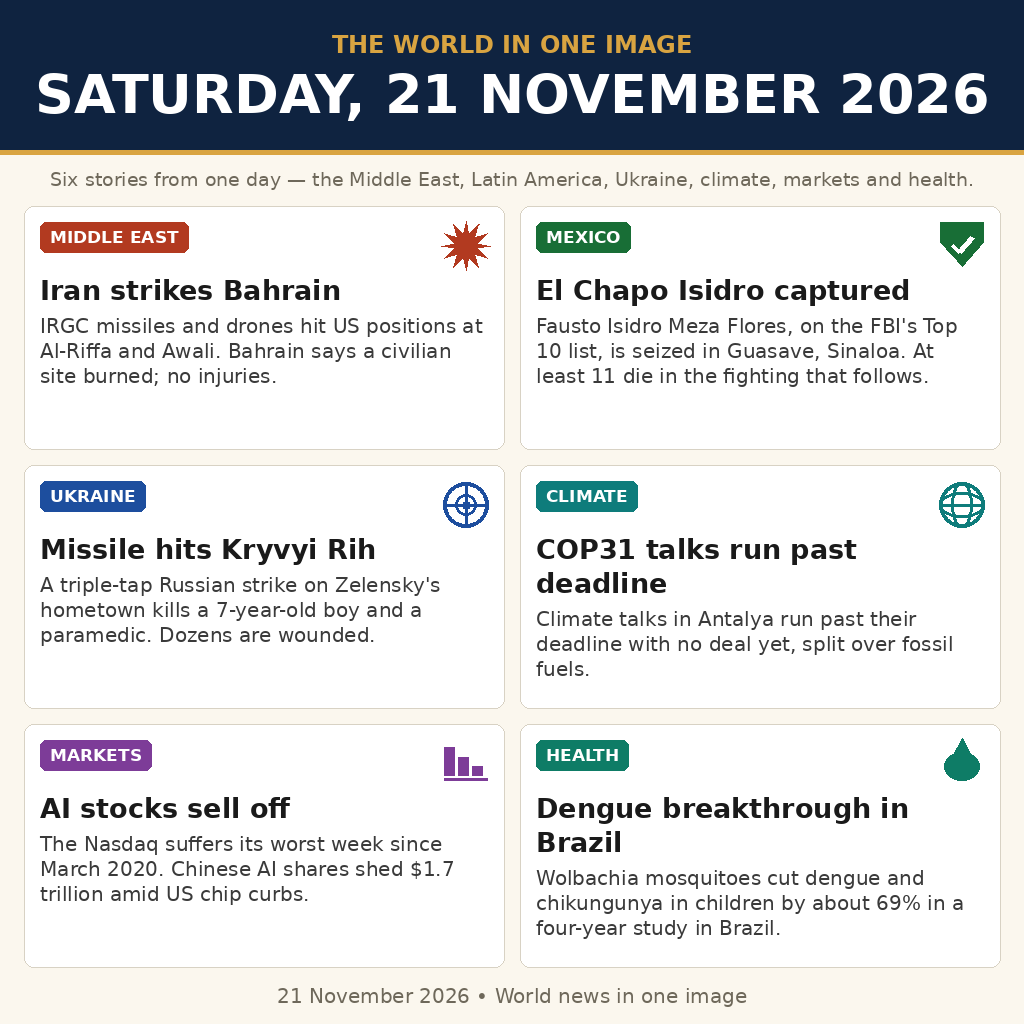
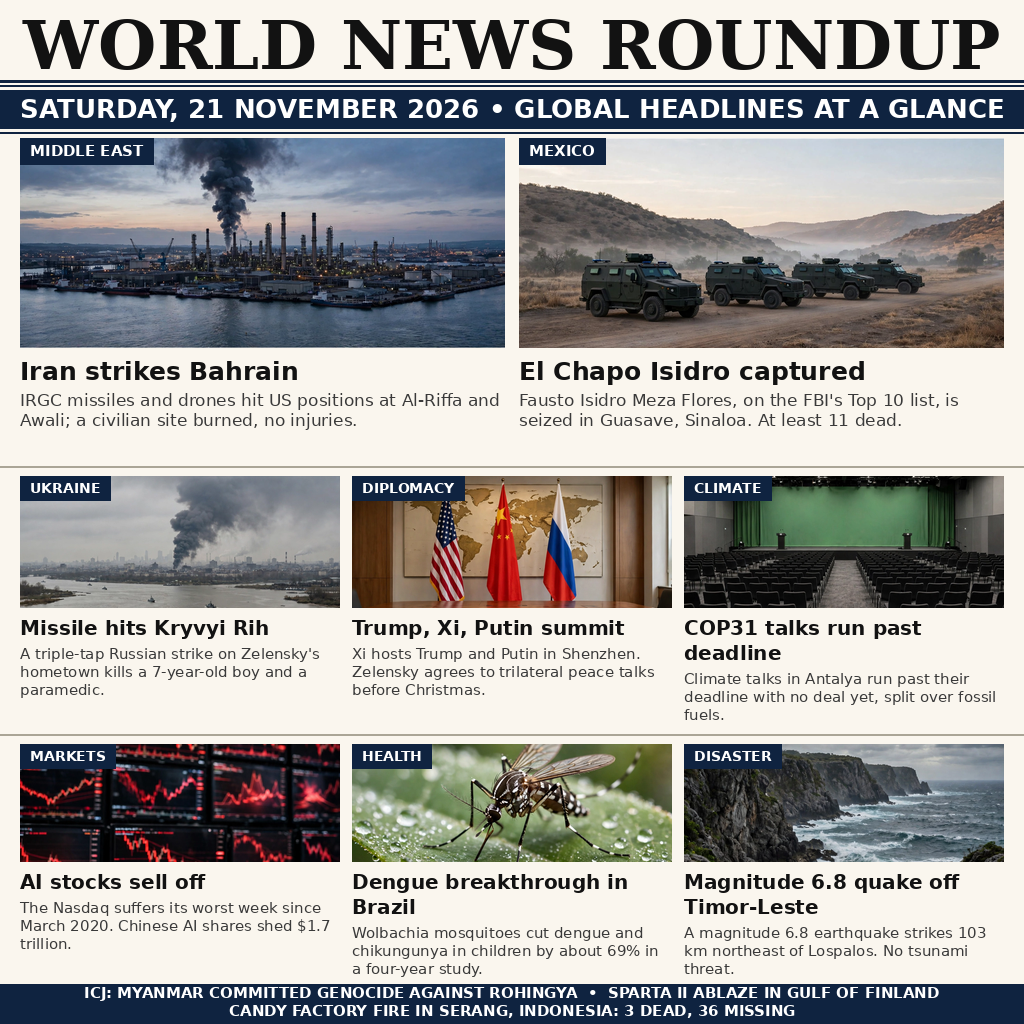
v2: newspaper front page with 8 photo stories and ticker

diff --git a/main.py b/main.py
@@ -1,8 +1,11 @@
 """Copy the entry image to the output directory.
 
 The entry is a pre-rendered PNG (entry.png, next to this file) that sums
-up the world news of Saturday 21 November 2026. This program only copies
-it to $MAKEFUN_OUTPUT_DIR/entry.png, so both runs write identical bytes.
+up the world news of Saturday 21 November 2026 as a newspaper front
+page: masthead, date band, eight photo stories with headlines, and a
+footer ticker. v2 replaces the v1 icon grid with AI-generated photo
+illustrations and two more stories. This program only copies it to
+$MAKEFUN_OUTPUT_DIR/entry.png, so both runs write identical bytes.
 Standard library only; no network.
 """
 

diff --git a/README.md b/README.md
@@ -10,12 +10,16 @@ A make.fun entry for the bounty
 [news-image-20261121](https://make.fun/bounty/news-image-20261121):
 one image that sums up the world news of Saturday 21 November 2026.
 
-The image is a newspaper-style front page with six stories from that day:
-Iran strikes Bahrain, "El Chapo Isidro" captured in Mexico, a Russian
-missile hits Kryvyi Rih, COP31 talks run past their deadline in Antalya,
-an AI stock sell-off, and a dengue breakthrough in Brazil. Every story is
-drawn with real rendered text (Python PIL, DejaVu fonts) — no AI image
-generator, no copied photos.
+The image is a newspaper-style front page with eight photo stories from
+that day: Iran strikes Bahrain, "El Chapo Isidro" captured in Mexico, a
+Russian missile hits Kryvyi Rih, the Trump–Xi–Putin summit in Shenzhen,
+COP31 talks run past their deadline in Antalya, an AI stock sell-off, a
+dengue breakthrough in Brazil, and a magnitude 6.8 earthquake off
+Timor-Leste — plus a ticker with the ICJ's Myanmar genocide ruling, the
+Sparta II ablaze in the Gulf of Finland, and the Serang factory fire.
+The photos are AI-generated illustrations (no real press photos, no
+identifiable people); all text is rendered with Python PIL and DejaVu
+fonts, and every fact is verified.
 
 `main.py` (Python 3.13, standard library only) copies `entry.png` to
 `$MAKEFUN_OUTPUT_DIR/entry.png`, so both runs write identical bytes.
